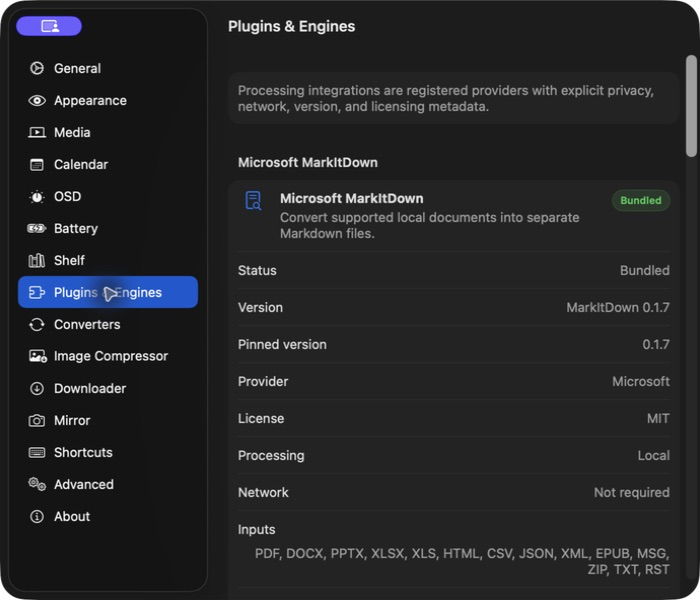
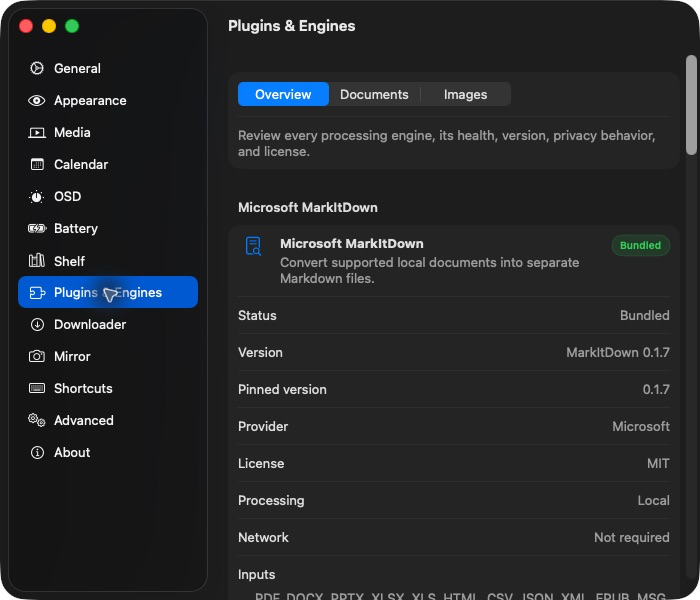
docs: finalize Nodebay publication approval package

diff --git a/docs/release-proposal.md b/docs/release-proposal.md
@@ -41,15 +41,28 @@ Current signing identity: `Developer ID Application: Kian Konrad Tajbakhsh (HZWY
 
 ## Proposed external operations
 
+Publication is split into two approval gates because Apple notarization and stapling change the release archive and therefore its SHA-256. Publishing the current pre-notarization checksum would create a broken Homebrew cask.
+
+### Phase 1: standalone source migration and notarization submission
+
 1. Create public standalone `Kian-hdr/nodebay` without an initialized README or license.
-2. Add it as `origin` and push the prepared `main` and `dev` branches plus the approved Nodebay tag, preserving history and metadata.
-3. Apply the proposed description, empty website, topics, issues setting, and social preview.
-4. Create public `Kian-hdr/homebrew-nodebay`, push its prepared `main`, and set its description.
-5. Add archival notices to `Kian-hdr/boring.notch` and `Kian-hdr/homebrew-boring-notch-markitdown`, mark the former prerelease historical, then archive both repositories read-only.
-6. Create the Nodebay release-tracking issue and, if approved, the `dev` to `main` release pull request.
-7. Submit the exact Developer ID artifact to Apple notarization, staple it, recreate and reverify the archive, and update the cask to the final checksum.
-8. Publish the approved GitHub release and tap only after the final post-notarization checksum is known.
+2. Add it as `origin` and push the prepared `main` and `dev` branches, preserving complete history and metadata. Do not create the release tag yet.
+3. Apply the proposed description, empty website, topics, issues setting, and current social preview.
+4. Create the public release-tracking issue from `docs/github-migration-issue-draft.md`.
+5. Add the approved archival notices to `Kian-hdr/boring.notch` and `Kian-hdr/homebrew-boring-notch-markitdown`, mark the former prerelease historical, then archive both repositories read-only.
+6. Submit the exact Developer ID application to Apple notarization. If Apple credentials are not already configured, stop before authentication and request the repository owner's action.
+
+Phase 1 does not create `Kian-hdr/homebrew-nodebay`, publish a tag or release, create a release PR, or expose a cask whose download URL does not exist.
+
+### Phase 2: final release and Homebrew publication
+
+After notarization succeeds, staple the ticket, recreate and reverify the ZIP, calculate the final checksum, update both cask copies, rerun the release and Homebrew checks, and present the exact final artifact and cask for a second approval. Only that second approval authorizes:
+
+1. the `nodebay-v0.1.0` tag and GitHub release;
+2. the `dev` to `main` release pull request, if a source difference exists at that time;
+3. creation of public `Kian-hdr/homebrew-nodebay` and push of its prepared `main` branch;
+4. public cask audit, install, launch, upgrade, and uninstall smoke tests.
 
 ## Approval gate
 
-Before any operation above, present the final diff, commits, signed-build screenshots, notices, verification matrix, destinations, PR and issue text, release notes, cask, and every external effect for one explicit approval.
+Before Phase 1, present the exact local branches, complete commit list, full diff artifact, tracked-file manifest, screenshots, notices, verification matrix, destinations, issue text, archival copy, and every external effect for explicit approval. Before Phase 2, present the final post-notarization archive, checksum, cask, release notes, proposed tag, PR state, and smoke-test plan for a second explicit approval.

diff --git a/README.md b/README.md
@@ -28,6 +28,8 @@ These privacy-safe dark-mode screenshots come from an ad-hoc signed Release QA c
 
 ## Features
 
+The following capabilities are implemented in the current source. Automated checks cover the safety and processing contracts described below. Hardware-dependent and final end-to-end UI checks that have not been rerun are explicitly listed as pending in the [release verification matrix](docs/release-verification-matrix.md); they are not claimed as release-verified.
+
 - Native notch UI on the built-in display and a virtual notch on external displays
 - Explicit built-in, selected, main, pointer-active, and all-display placement modes
 - Persistent shelf references with security-scoped bookmarks
@@ -96,7 +98,7 @@ The proposed public Homebrew command, after a release and tap are approved and p
 brew install --cask Kian-hdr/nodebay/nodebay
 ```
 
-See [Homebrew distribution](docs/homebrew-nodebay.md). This command is intentionally documented as proposed and will not work until the approved public tap exists.
+See [Homebrew installation](docs/homebrew.md) and the [release packaging details](docs/homebrew-nodebay.md). This command is intentionally documented as proposed and will not work until the approved public release and tap exist.
 
 After the first approved GitHub release is published, direct installation will be available from [Nodebay Releases](https://github.com/Kian-hdr/nodebay/releases). Download the Apple Silicon archive, move `Nodebay.app` to Applications, and verify the published SHA-256 checksum. This link is prepared in advance and contains no Nodebay release yet.
 

diff --git a/docs/nodebay-verification.md b/docs/nodebay-verification.md
@@ -49,6 +49,7 @@ This record separates completed checks from checks that still require hardware, 
 - The native Nodebay application menu exposes **Settings…**, and `Command-,` opens the settings window.
 - General settings render the built-in display, follow-active-display mode, virtual-notch fallback, and notch sizing controls.
 - Plugins & Engines diagnostics report bundled MarkItDown 0.1.7, installed yt-dlp 2026.07.04, FFmpeg 9.0.1, ImageOptim 1.9.3, and the intentionally unavailable browser bridge.
+- Converter and image-compressor details are consolidated into one Plugins & Engines destination with Overview, Documents, and Images sections; the obsolete duplicate sidebar presentation is not present in the refreshed capture.
 - Homebrew engine detection runs through the allowlisted XPC helper, avoiding false unavailable results caused by the main-app sandbox.
 - The Converters page reports a healthy bundled runtime and its generated, local-only test conversion completed with **Passed**.
 - Downloader, Image Compressor, independent media sources, shelf settings, and About Nodebay rendered without dismissing or crashing the app.

diff --git a/docs/release-verification-matrix.md b/docs/release-verification-matrix.md
@@ -29,7 +29,7 @@ Checked on 2026-08-17 on Apple Silicon, macOS 26.6.1, and Xcode 26.6. `Passed` m
 | Documentation links | Passed local | Thirty required files and all local Markdown links validated offline |
 | Homebrew cask syntax/style | Passed | Ruby syntax and `brew style` pass in the prepared local tap |
 | Homebrew audit/install/uninstall | Unavailable | Requires the approved public release URL and tap |
-| UI screenshots | Passed for checked dark-mode views | Nine privacy-safe repository screenshots; light mode and final notarized build pending |
+| UI screenshots | Passed for checked dark-mode views | Nine privacy-safe repository screenshots; the unified Plugins & Engines page was recaptured from the installed app on 2026-08-17; light mode and final notarized build pending |
 | Accessibility audit | Not run | VoiceOver, focus, hit-target, and reduced-motion manual pass pending |
 | Large-batch memory/crash test | Not run | Requires dedicated stress fixtures and Instruments pass |
 
